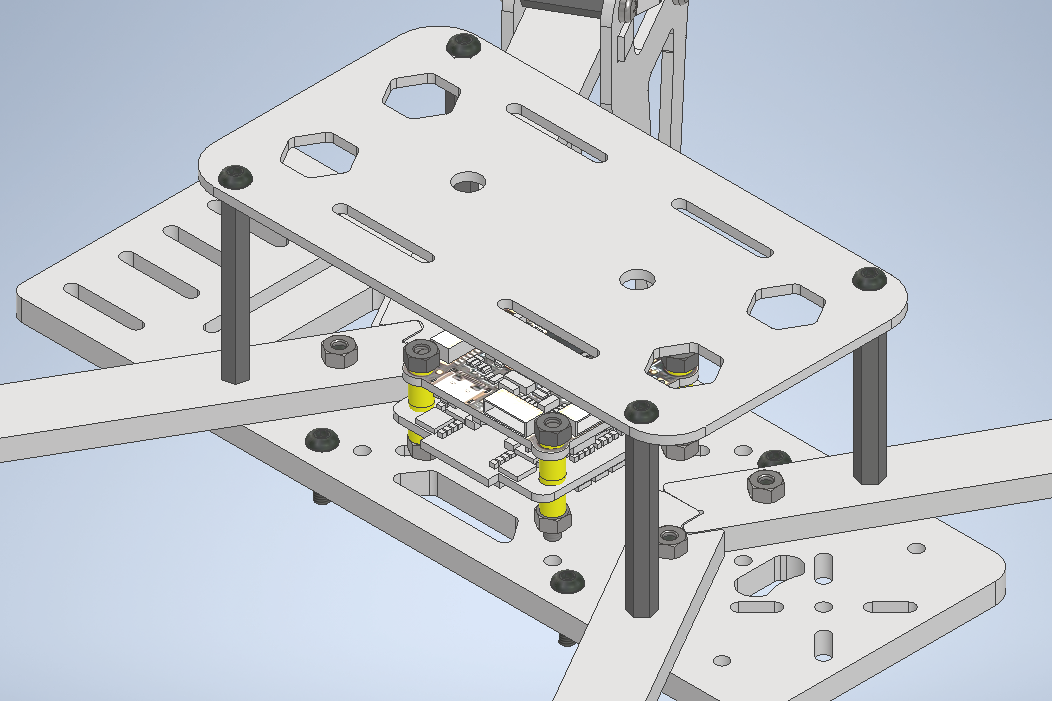
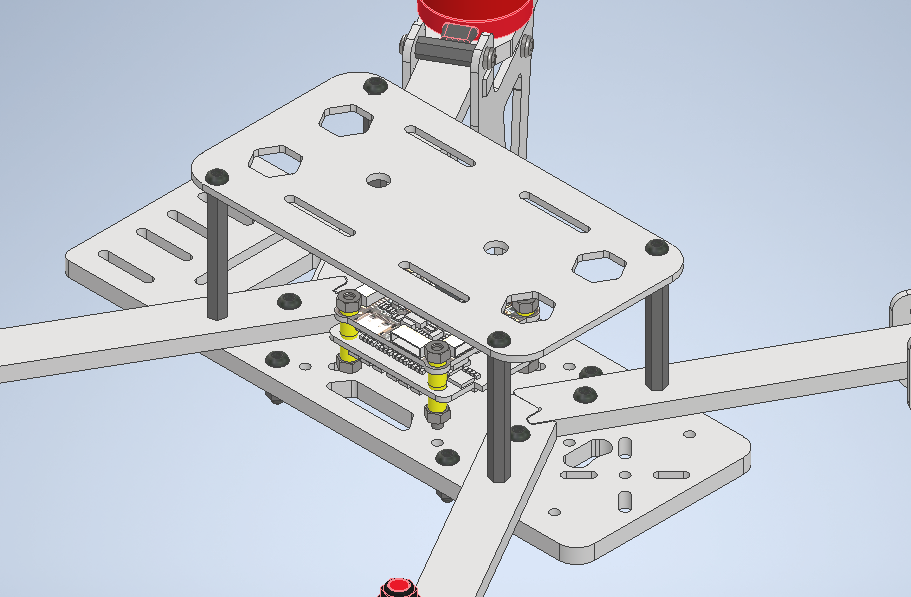
изменения в сборке

diff --git a/docs/ru/assembly.md b/docs/ru/assembly.md
@@ -61,7 +61,7 @@
 
     ![5.3](assets/neural_network_train/assembly/5.3.png)
 
-6. Установите металлические стойки 40мм на лучах, фиксируя винтами M3x14 (HEX).На них закрепите верхнюю платформу используя винты M3x8 (НЕX)
+6. Установите металлические стойки 30мм на лучах, фиксируя винтами M3x14 (HEX).На них закрепите верхнюю платформу используя винты M3x8 (НЕX)
 
 ![6.1](assets/neural_network_train/assembly/6.1.png)
 
